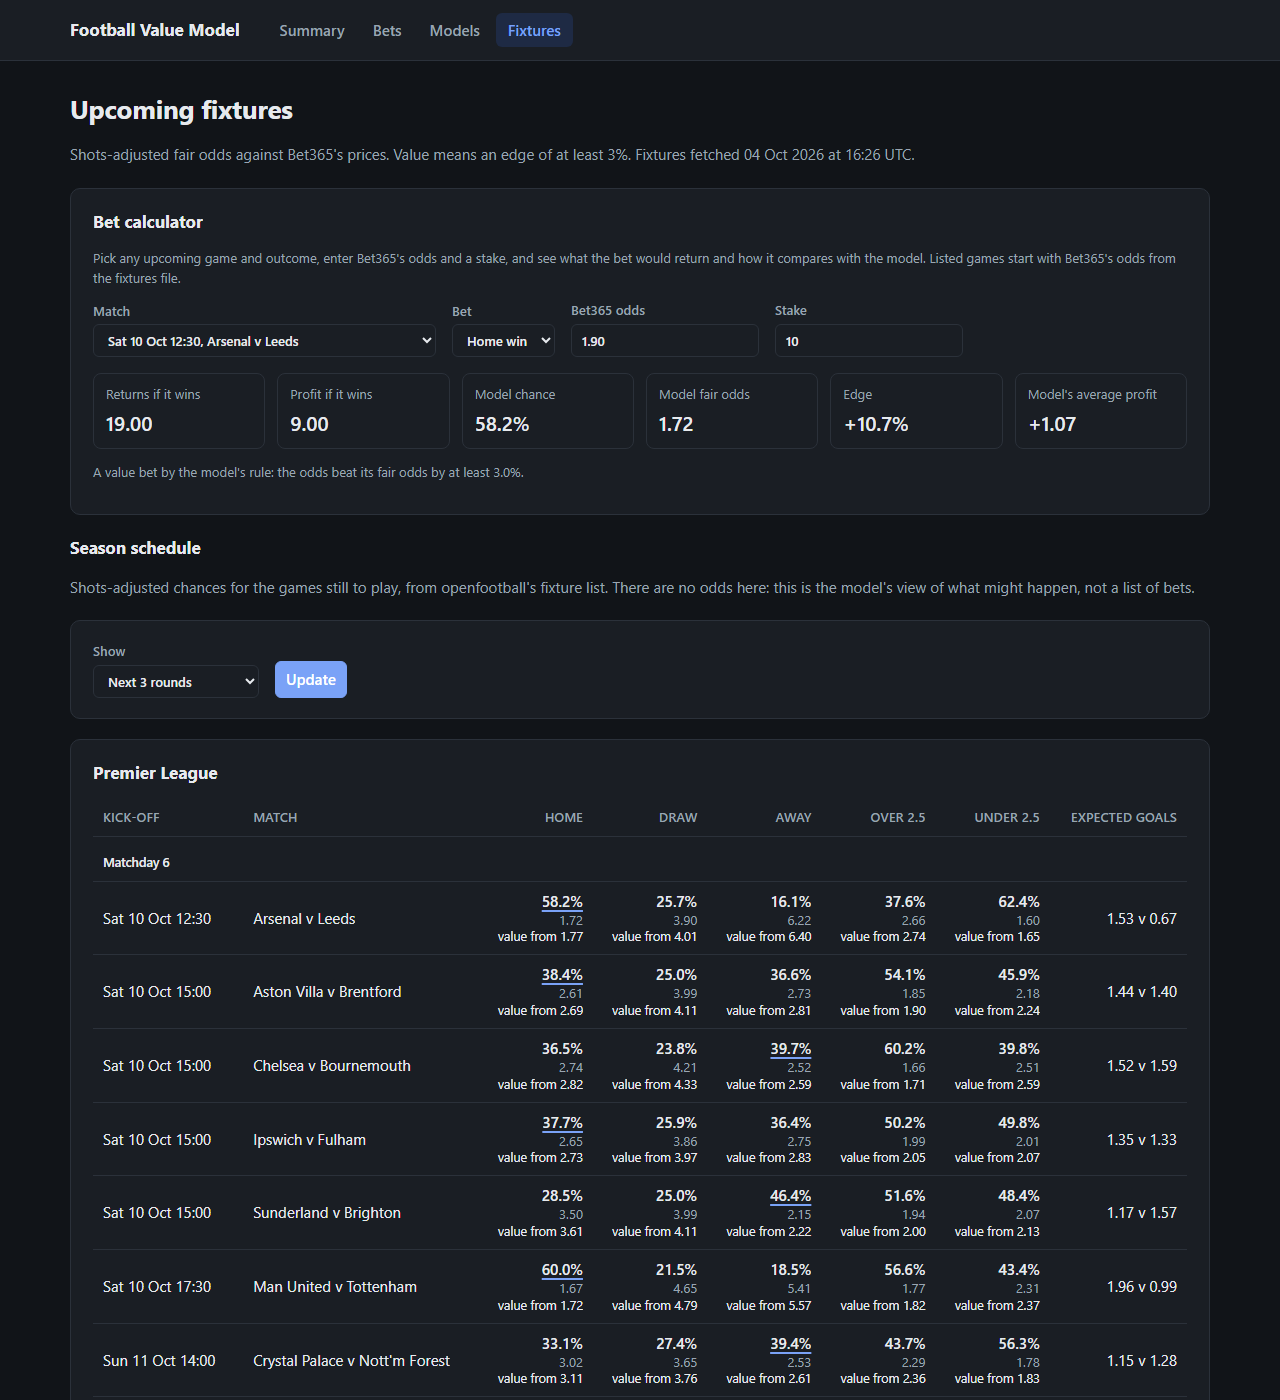
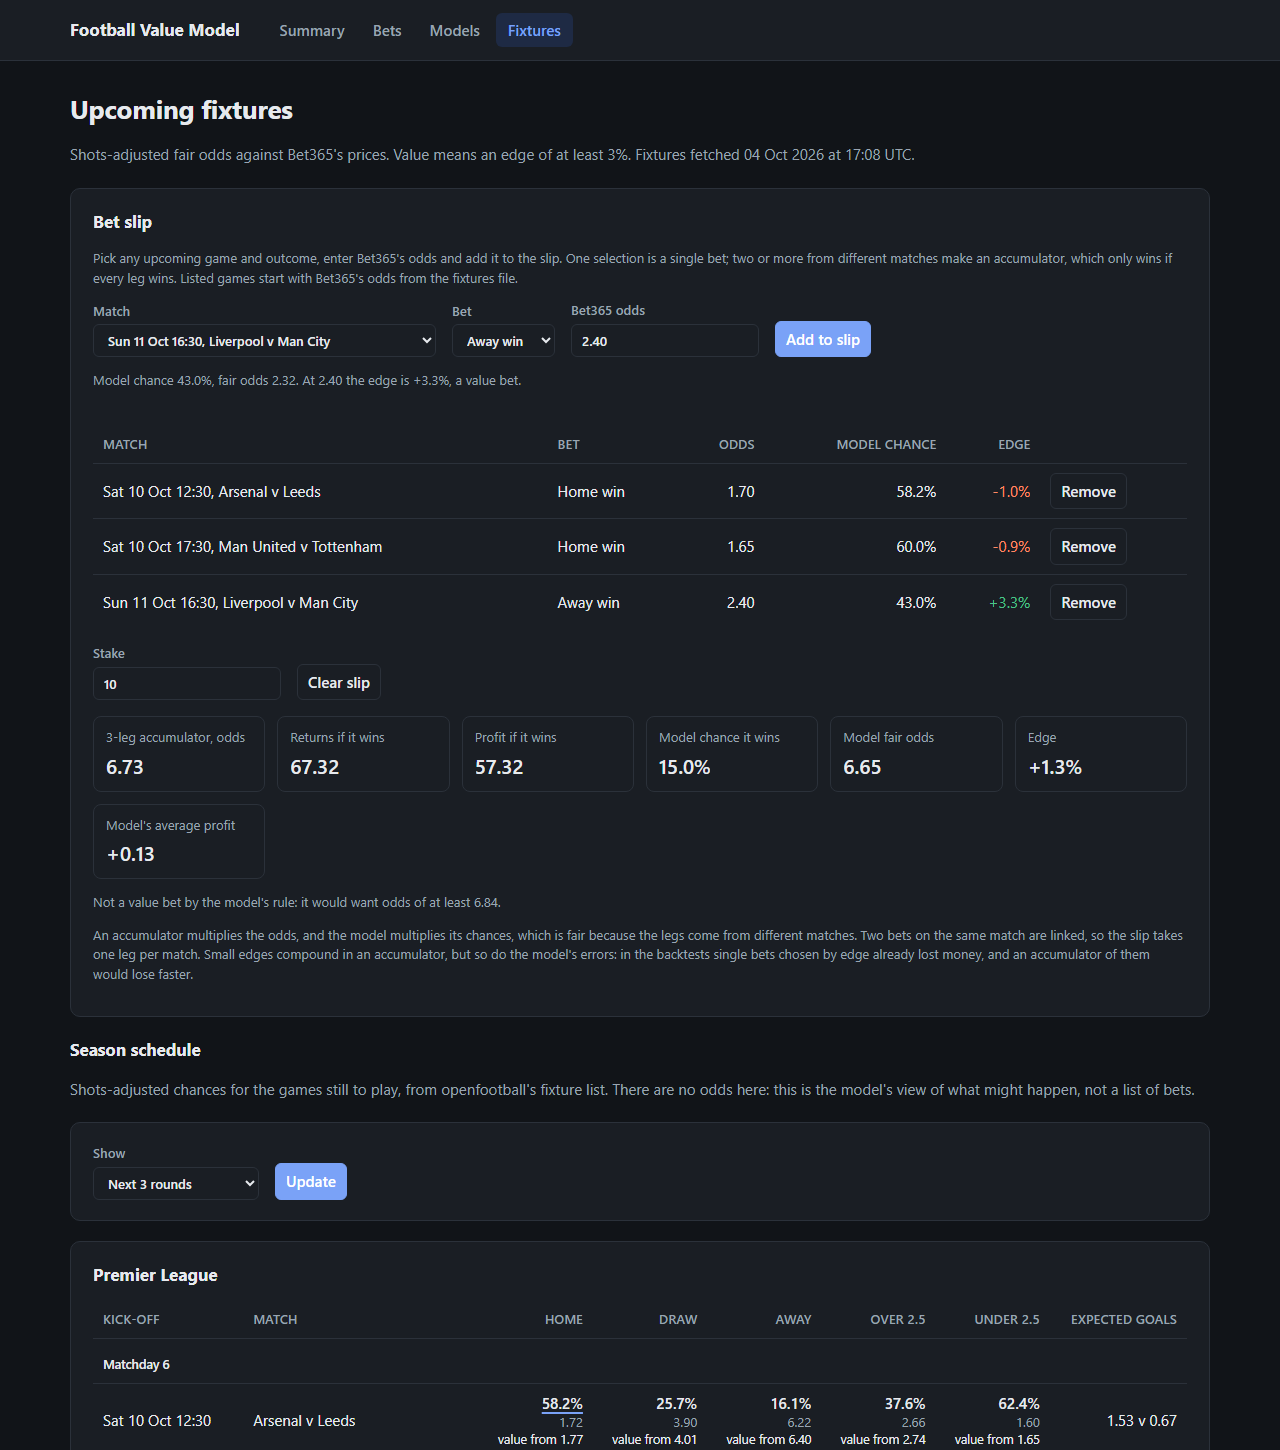
Document the bet slip and update its screenshot

diff --git a/README.md b/README.md
@@ -129,11 +129,11 @@ valuemodel fixtures
 flask --app valuemodel.web run
 ```
 
-Then open http://127.0.0.1:5000. The summary page leads with closing line value and shows a bankroll chart for each strategy. The bets page has the full bet log with filters for strategy, league, season, market and result. The models page compares the forecasters and shows a calibration chart. The fixtures page starts with the same ranked paper bets, each with a box to type a stake and see what it would return. It then prices upcoming matches next to Bet365's odds, highlights value, and lists each match's most likely result in order of the model's confidence. A bet calculator takes any upcoming game, outcome, odds and stake, and shows the return, the profit, the edge against the model and whether it counts as value. Below that, a season schedule section gives the model's chances, fair odds, prices to beat and expected goals for the next few rounds of the Premier League and Championship, or every remaining round. It has no odds, so it is the model's view of what might happen rather than a list of bets, and games further ahead use today's team ratings. The bets page can also be ordered by the model's chance of each bet winning.
+Then open http://127.0.0.1:5000. The summary page leads with closing line value and shows a bankroll chart for each strategy. The bets page has the full bet log with filters for strategy, league, season, market and result. The models page compares the forecasters and shows a calibration chart. The fixtures page starts with the same ranked paper bets, each with a box to type a stake and see what it would return. It then prices upcoming matches next to Bet365's odds, highlights value, and lists each match's most likely result in order of the model's confidence. A bet slip takes any upcoming game, outcome and odds, or a paper bet with one click. One selection is a single; two or more make an accumulator, whose odds and model chances multiply. The slip shows the combined odds, the return and profit for a stake, the model's chance that every leg wins, the edge, and whether it counts as value. It takes one leg per match, because outcomes of the same match are linked and their chances cannot simply be multiplied. Below that, a season schedule section gives the model's chances, fair odds, prices to beat and expected goals for the next few rounds of the Premier League and Championship, or every remaining round. It has no odds, so it is the model's view of what might happen rather than a list of bets, and games further ahead use today's team ratings. The bets page can also be ordered by the model's chance of each bet winning.
 
-![Fixtures page with the bet calculator and the season schedule](docs/screenshot-fixtures.png)
+![Fixtures page with a three-leg accumulator on the bet slip and the season schedule](docs/screenshot-fixtures.png)
 
-The calculator above shows an example entry, odds of 1.90 and a stake of 10, on a real upcoming game.
+The slip above holds an example accumulator on real upcoming games. The odds of 1.70, 1.65 and 2.40 were typed in for illustration and are not Bet365's prices.
 
 The dashboard only reads the local database and cached files. `valuemodel fixtures` is what fetches the latest fixtures file, refreshes this season's results and downloads the season schedules, for the Premier League and the Championship unless `--leagues` says otherwise. The fixtures file covers many leagues but only the next few days, once bookmakers have priced the games, and the model can only price leagues it has results for. The schedules cover the whole season. Charts use Chart.js from a CDN, so they need an internet connection.
 
